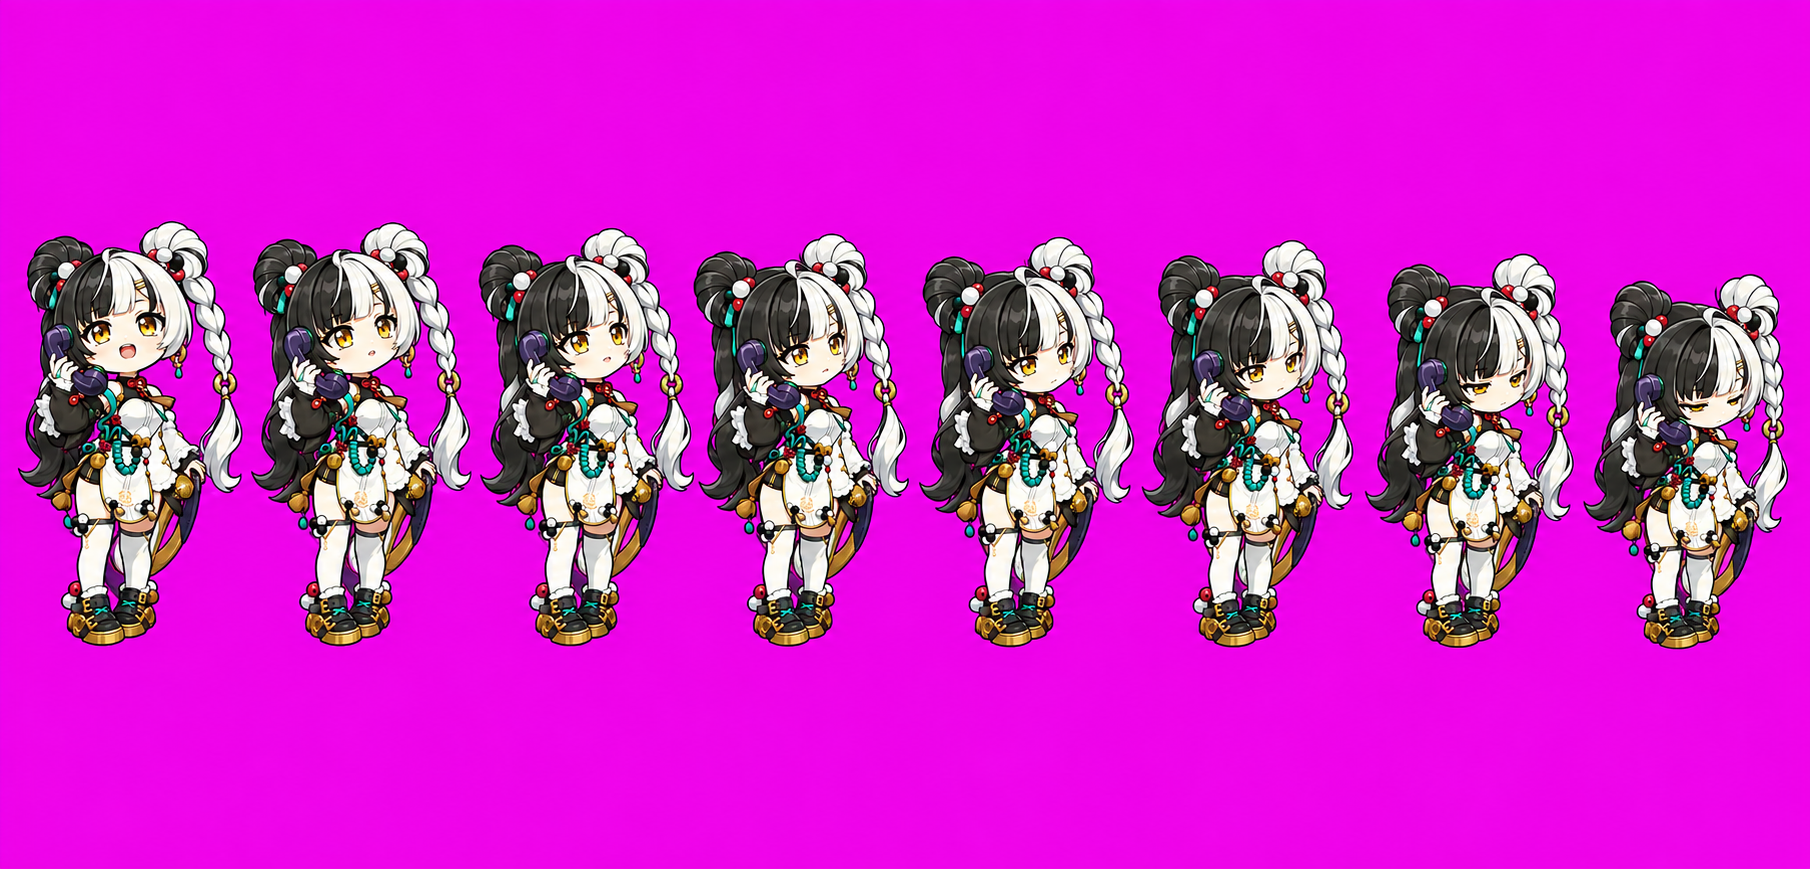
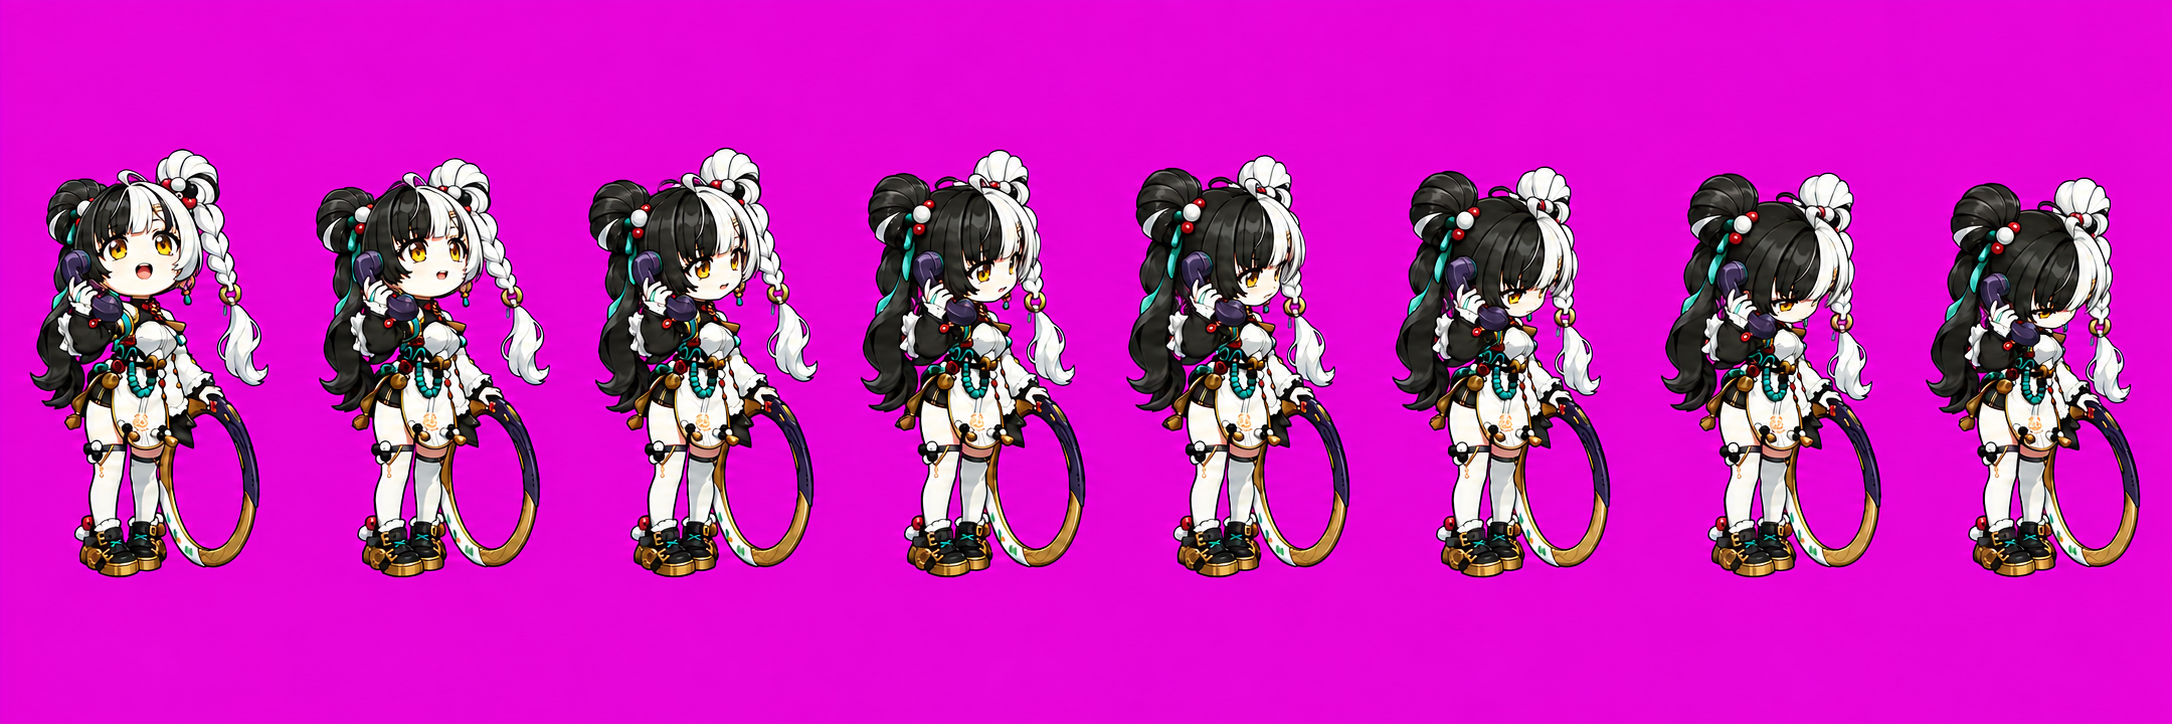
feat(pet): rebuild the 16-direction look loop

diff --git a/scripts/register_look_loop_geometry.py b/scripts/register_look_loop_geometry.py
@@ -1,0 +1,178 @@
+#!/usr/bin/env python3
+"""Normalize Dialyn's 16 look cells to a shared scale and planted baseline."""
+
+from __future__ import annotations
+
+import argparse
+import json
+from pathlib import Path
+
+from PIL import Image
+
+
+CELL_WIDTH = 192
+CELL_HEIGHT = 208
+LOOK_ROWS = (9, 10)
+
+
+def visible_points(image: Image.Image, threshold: int = 16) -> list[tuple[int, int]]:
+    alpha = image.getchannel("A")
+    return [
+        (x, y)
+        for y in range(image.height)
+        for x in range(image.width)
+        if alpha.getpixel((x, y)) > threshold
+    ]
+
+
+def lower_center_x(image: Image.Image) -> float:
+    points = visible_points(image)
+    if not points:
+        raise ValueError("look cell is empty")
+    top = min(y for _, y in points)
+    bottom = max(y for _, y in points) + 1
+    lower_start = top + (bottom - top) * 0.72
+    lower = [(x, y) for x, y in points if y >= lower_start] or points
+    return sum(x for x, _ in lower) / len(lower)
+
+
+def clear_transparent_rgb(image: Image.Image) -> Image.Image:
+    rgba = image.convert("RGBA")
+    data = bytearray(rgba.tobytes())
+    for index in range(0, len(data), 4):
+        if data[index + 3] == 0:
+            data[index : index + 3] = b"\x00\x00\x00"
+    return Image.frombytes("RGBA", rgba.size, bytes(data))
+
+
+def normalize_cell(
+    cell: Image.Image,
+    target_height: int,
+    target_center_x: float,
+    target_bottom: int,
+    horizontal_anchor: str,
+) -> tuple[Image.Image, dict[str, object]]:
+    bbox = cell.getbbox()
+    if bbox is None:
+        raise ValueError("look cell is empty")
+
+    left, top, right, bottom = bbox
+    crop = cell.crop(bbox).convert("RGBA")
+    source_height = bottom - top
+    scale = target_height / source_height
+    resized = crop.resize(
+        (
+            max(1, round(crop.width * scale)),
+            max(1, round(crop.height * scale)),
+        ),
+        Image.Resampling.LANCZOS,
+    )
+
+    if horizontal_anchor == "bbox":
+        source_center = crop.width / 2
+    else:
+        source_center = lower_center_x(cell) - left
+    target_left = round(target_center_x - source_center * scale)
+    target_top = target_bottom - resized.height
+    if (
+        target_left < 0
+        or target_top < 0
+        or target_left + resized.width > CELL_WIDTH
+        or target_top + resized.height > CELL_HEIGHT
+    ):
+        raise ValueError("normalized look cell would exceed its 192x208 slot")
+
+    output = Image.new("RGBA", (CELL_WIDTH, CELL_HEIGHT), (0, 0, 0, 0))
+    output.alpha_composite(resized, (target_left, target_top))
+    output = clear_transparent_rgb(output)
+    final_bbox = output.getbbox()
+    if final_bbox is None:
+        raise ValueError("normalized look cell became empty")
+
+    return output, {
+        "source_bbox": [left, top, right, bottom],
+        "source_height": source_height,
+        "scale": scale,
+        "target_left": target_left,
+        "target_top": target_top,
+        "horizontal_anchor": horizontal_anchor,
+        "final_bbox": list(final_bbox),
+    }
+
+
+def main() -> None:
+    parser = argparse.ArgumentParser(description=__doc__)
+    parser.add_argument("input", help="Input 1536x2288 v2 atlas")
+    parser.add_argument("--output", required=True)
+    parser.add_argument("--json-out")
+    parser.add_argument("--target-height", type=int, default=192)
+    parser.add_argument("--target-center-x", type=float, default=98.0)
+    parser.add_argument("--target-bottom", type=int, default=203)
+    parser.add_argument(
+        "--horizontal-anchor",
+        choices=("bbox", "lower-band"),
+        default="bbox",
+        help="Align each cell by its full silhouette center or lower-body center.",
+    )
+    args = parser.parse_args()
+
+    input_path = Path(args.input).expanduser().resolve()
+    with Image.open(input_path) as opened:
+        atlas = opened.convert("RGBA")
+    if atlas.size != (1536, 2288):
+        raise SystemExit(f"expected 1536x2288 atlas, got {atlas.width}x{atlas.height}")
+
+    result = atlas.copy()
+    cells: list[dict[str, object]] = []
+    direction_index = 0
+    for row in LOOK_ROWS:
+        for column in range(8):
+            box = (
+                column * CELL_WIDTH,
+                row * CELL_HEIGHT,
+                (column + 1) * CELL_WIDTH,
+                (row + 1) * CELL_HEIGHT,
+            )
+            normalized, metrics = normalize_cell(
+                atlas.crop(box),
+                args.target_height,
+                args.target_center_x,
+                args.target_bottom,
+                args.horizontal_anchor,
+            )
+            result.paste((0, 0, 0, 0), box)
+            result.alpha_composite(normalized, (box[0], box[1]))
+            metrics.update(
+                {
+                    "direction_degrees": direction_index * 22.5,
+                    "row": row,
+                    "column": column,
+                }
+            )
+            cells.append(metrics)
+            direction_index += 1
+
+    result = clear_transparent_rgb(result)
+    output_path = Path(args.output).expanduser().resolve()
+    output_path.parent.mkdir(parents=True, exist_ok=True)
+    result.save(output_path)
+
+    report = {
+        "ok": True,
+        "input": str(input_path),
+        "output": str(output_path),
+        "target_height": args.target_height,
+        "target_center_x": args.target_center_x,
+        "target_bottom": args.target_bottom,
+        "horizontal_anchor": args.horizontal_anchor,
+        "cells": cells,
+    }
+    if args.json_out:
+        report_path = Path(args.json_out).expanduser().resolve()
+        report_path.parent.mkdir(parents=True, exist_ok=True)
+        report_path.write_text(json.dumps(report, indent=2) + "\n", encoding="utf-8")
+    print(json.dumps(report, indent=2))
+
+
+if __name__ == "__main__":
+    main()

diff --git a/qa/look-mechanics.md b/qa/look-mechanics.md
@@ -1,0 +1,20 @@
+# Dialyn look-direction mechanics
+
+## Natural motion
+
+Dialyn looks around as a planted, living character rather than as a rotated sticker. Her gold pupils lead the gaze, her eyelids reshape, then her head turns or nods a small amount through the neck. The upper torso and shoulders provide only a restrained counter-shift. Both feet, pelvis, lowest contact line, overall body height, and the gold/navy ring's ground contact stay locked. The purple handset remains attached on the black-hair side; the teal cord bends continuously and lags the head by a fraction of one step. The black and white braids follow with tiny inertia but never swap sides. There is exactly one crisp silhouette per pose: no duplicate outlines, ghost images, blur, afterimages, or motion trails.
+
+## Cardinal pose families
+
+- `000 up`: broadly frontal. Gold pupils sit high, upper lids open slightly, chin lifts a little, and the upper chest follows upward. Black hair/handset stays on screen-left and the long white braid stays on screen-right. Feet and ring remain unchanged.
+- `090 screen-right`: nose tip and both pupils move unmistakably toward the viewer's screen-right. The white-braid side becomes the leading/more open side of the face while the black-hair/handset side compresses slightly in perspective; the handset never detaches or changes sides. Shoulders turn only enough to support the head.
+- `180 down`: broadly frontal. Pupils sit low, upper lids lower slightly, chin tucks, and shoulders soften a little. Braids and cord settle forward by a small continuous amount. Feet, pelvis, scale, and ring contact remain unchanged.
+- `270 screen-left`: nose tip and both pupils move unmistakably toward the viewer's screen-left. The black-hair/handset side becomes the leading/more open side while the long white-braid side recedes slightly; the white braid remains opposite the handset. This is independently drawn directional anatomy, not a mirror of `090`.
+
+## Per-step motion budget
+
+Every adjacent 22.5-degree step uses a similar visual increment. At final 192x208 size: pupil travel is about 1-2 px per step; head-center travel is at most 1.5 px; head-angle change is at most about 3 degrees; shoulder/upper-torso counter-shift is at most 1.5 px; braid and cord tips may lag by at most 3 px. The lowest opaque contact line may move by at most 1 px, body height by at most 2 percent, and the ring's planted outer edge by at most 2 px. Do not compensate by scaling, skewing, rotating, or translating the whole character.
+
+## Seam requirements
+
+`157.5 -> 180` must be one ordinary down-right-to-down step, not a redraw or size jump. `337.5 -> 000` must be one ordinary up-left-to-up step. The face construction, eye size, braid attachment points, handset placement, cord continuity, ring geometry, scale, baseline, and line sharpness must remain continuous at both row boundaries.
